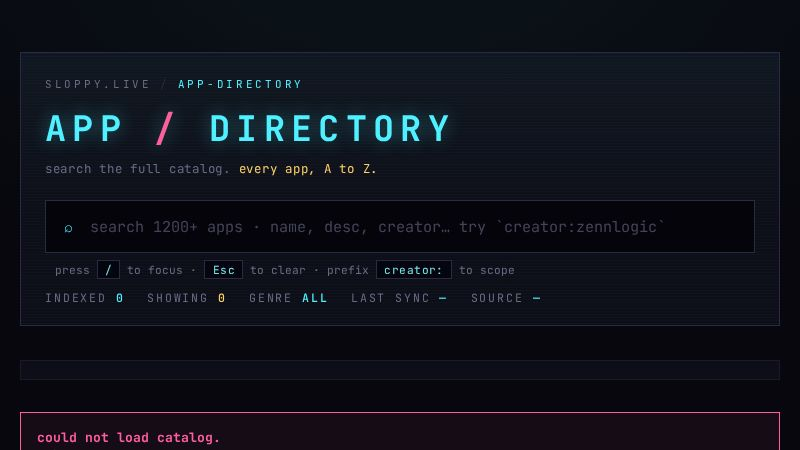
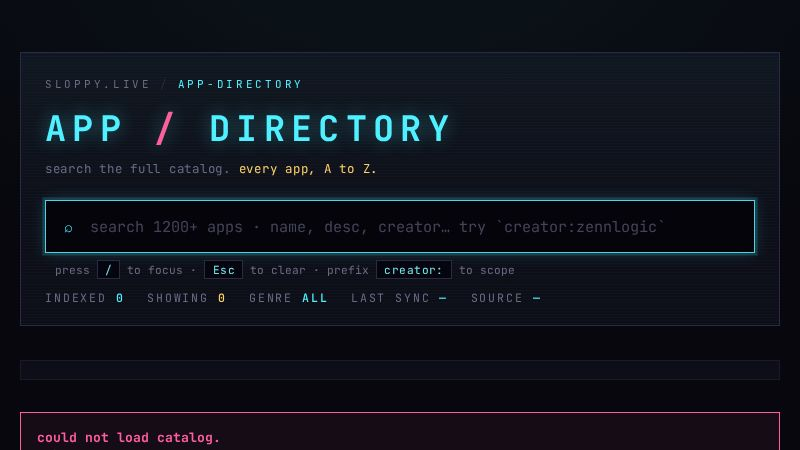
sloppy-datasets: switch fmtRelative to calendar shorthand for old events
Chat asked why timestamps were showing "111 days ago". Investigated: the
math was correct — today is 2026-05-27, the newest ai_events row is from
2026-02-04 (the table has only 11 rows, all client_error from Feb 4),
and the delta really is 111.9 days. Not a bug, but the UX was bad: a bare
"111d ago" forces the reader to do month-arithmetic to figure out what
date that maps to.

Tightened the tier boundaries:
- < 60s  → "Ns ago"
- < 60m  → "Nm ago"
- < 48h  → "Nh ago"
- < 14d  → "Nd ago"     (was: any number of days)
- < 9w   → "Nw ago"     (new)
- ≥ 9w   → "MMM D"      (new: calendar shorthand)
- prior year → "MMM D 'YY" (new: 2-digit year suffix when crossing year)

The formatter takes an optional second arg `abs` (absolute timestamp ms).
When provided and the event is ≥9 weeks old, we render the actual month
+ day from the timestamp instead of a raw day count. All three call sites
(timeline row, details pane, newest-event HUD stat) updated to pass it.
Falls back to "Nd ago" if `abs` is omitted, so the function stays usable
in contexts that only have a duration.

Verified tier boundaries against synthetic timestamps spanning each
threshold — the previously-shown "111d ago" Feb 4 row now renders simply
"Feb 4", which is what a human reads in zero mental ops.

Changed region(s): [[0.0312, 0.4356, 0.9688, 0.56], [0.0625, 0.56, 0.9375, 0.5911]]

diff --git a/apps/sloppy-datasets/index.html b/apps/sloppy-datasets/index.html
@@ -487,13 +487,30 @@
   var detailsBody = document.getElementById('detailsBody');
   var filterChipsEl = document.getElementById('filterChips');
 
-  function fmtRelative(ms){
+  // For anything older than ~2 weeks the bare "Nd ago" number forces the
+  // reader to do mental math (is "111d" Feb or April?). Once we cross that
+  // threshold we switch to a calendar-shorthand label that includes the
+  // actual month/year — easier to read at a glance, and the full ISO
+  // timestamp is still one click away in the details pane.
+  function fmtRelative(ms, abs){
     if (ms == null || isNaN(ms)) return '—';
-    var s = Math.max(0, Math.floor(ms / 1000));
+    if (ms < 0) ms = 0;
+    var s = Math.floor(ms / 1000);
     if (s < 60) return s + 's ago';
     var m = Math.floor(s / 60); if (m < 60) return m + 'm ago';
     var h = Math.floor(m / 60); if (h < 48) return h + 'h ago';
-    var d = Math.floor(h / 24); return d + 'd ago';
+    var d = Math.floor(h / 24); if (d < 14) return d + 'd ago';
+    var w = Math.floor(d / 7); if (w < 9) return w + 'w ago';
+    // 9+ weeks: show absolute date (e.g. "Feb 4" / "Feb 4 '25"). Falls
+    // back to "Nd ago" if the caller didn't pass an absolute timestamp.
+    if (abs == null) return d + 'd ago';
+    var dt = new Date(abs);
+    if (isNaN(dt.getTime())) return d + 'd ago';
+    var months = ['Jan','Feb','Mar','Apr','May','Jun','Jul','Aug','Sep','Oct','Nov','Dec'];
+    var label = months[dt.getMonth()] + ' ' + dt.getDate();
+    var now = new Date();
+    if (dt.getFullYear() !== now.getFullYear()) label += " '" + String(dt.getFullYear()).slice(-2);
+    return label;
   }
   function fmtAbs(iso){
     if (!iso) return '—';
@@ -602,7 +619,7 @@
       var errStr = ev.isError ? ' · <span style="color:var(--error)">ERR</span>' : '';
       div.innerHTML =
         '<div class="top">' +
-          '<span class="time">' + fmtRelative(now - ev.createdMs) + '</span>' +
+          '<span class="time">' + fmtRelative(now - ev.createdMs, ev.createdMs) + '</span>' +
           '<span class="type-badge">' + escapeHtml(ev.eventType) + '</span>' +
         '</div>' +
         '<div class="preview">' + escapeHtml(ev.preview) + '</div>' +
@@ -647,7 +664,7 @@
     var hue = hueFor(ev.eventType);
     var color = ev.isError ? 'var(--error)' : 'hsl(' + hue + ',85%,' + lightness + ')';
     parts.push('<div class="field"><div class="field-label">event_type</div><div class="field-val"><span class="type-pill" style="color:' + color + '">' + escapeHtml(ev.eventType) + '</span></div></div>');
-    parts.push('<div class="field"><div class="field-label">created_at</div><div class="field-val">' + escapeHtml(fmtAbs(ev.createdAt)) + ' <span style="color:var(--silver-dim)">· ' + escapeHtml(fmtRelative(Date.now() - ev.createdMs)) + '</span></div></div>');
+    parts.push('<div class="field"><div class="field-label">created_at</div><div class="field-val">' + escapeHtml(fmtAbs(ev.createdAt)) + ' <span style="color:var(--silver-dim)">· ' + escapeHtml(fmtRelative(Date.now() - ev.createdMs, ev.createdMs)) + '</span></div></div>');
     if (ev.username) parts.push('<div class="field"><div class="field-label">username</div><div class="field-val" style="color:var(--cyan)">' + escapeHtml(ev.username) + '</div></div>');
     if (ev.entityType) parts.push('<div class="field"><div class="field-label">entity_type</div><div class="field-val">' + escapeHtml(ev.entityType) + '</div></div>');
     if (ev.entityId) parts.push('<div class="field"><div class="field-label">entity_id</div><div class="field-val" style="font-size:0.7rem;color:var(--silver-dim)">' + escapeHtml(ev.entityId) + '</div></div>');
@@ -707,7 +724,7 @@
     document.getElementById('statToolsSub').textContent = 'unique apps emitting';
     var statDur = document.getElementById('statDur');
     if (newest){
-      var rel = fmtRelative(Date.now() - newest);
+      var rel = fmtRelative(Date.now() - newest, newest);
       statDur.textContent = rel;
       document.getElementById('statDurSub').textContent = 'last event ingested';
     } else {